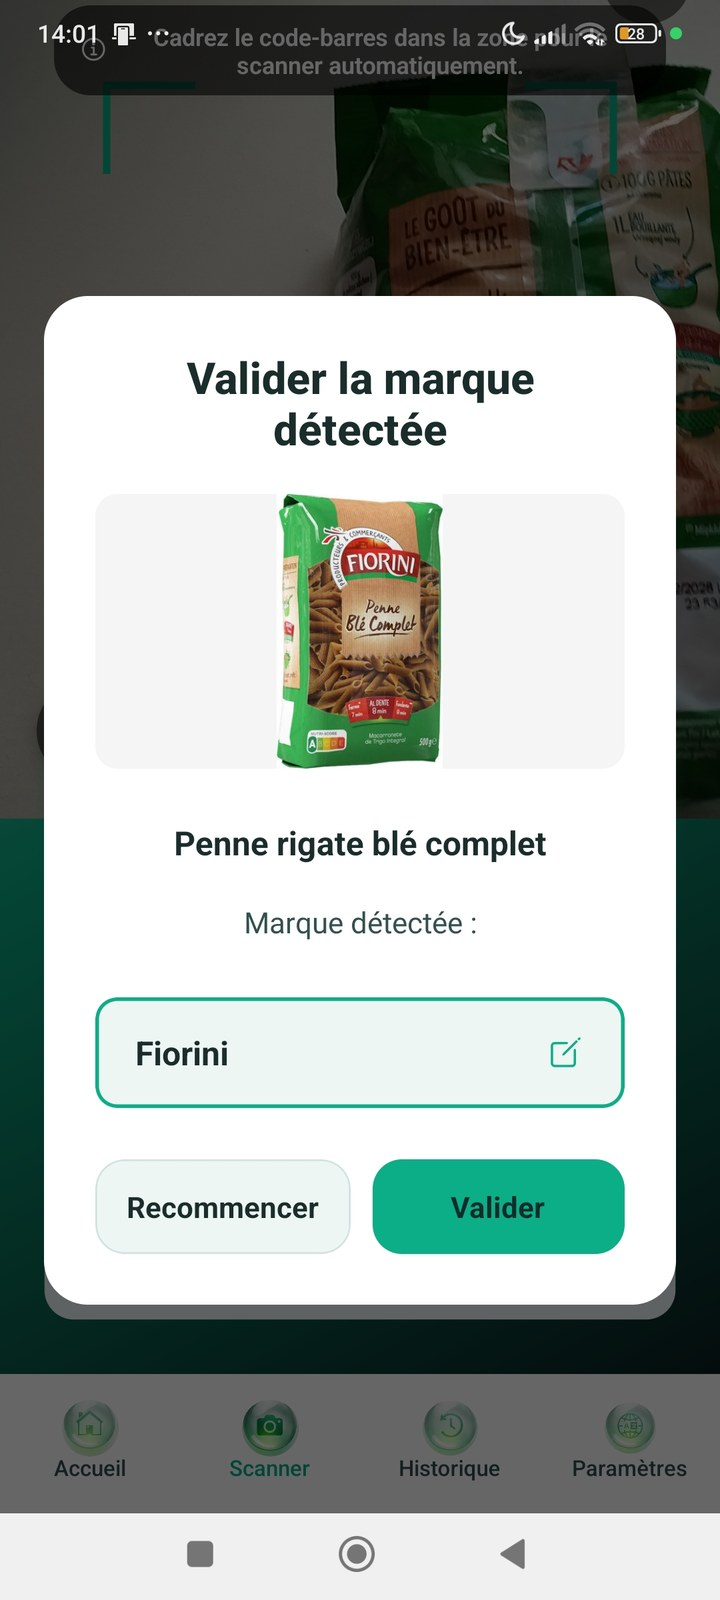
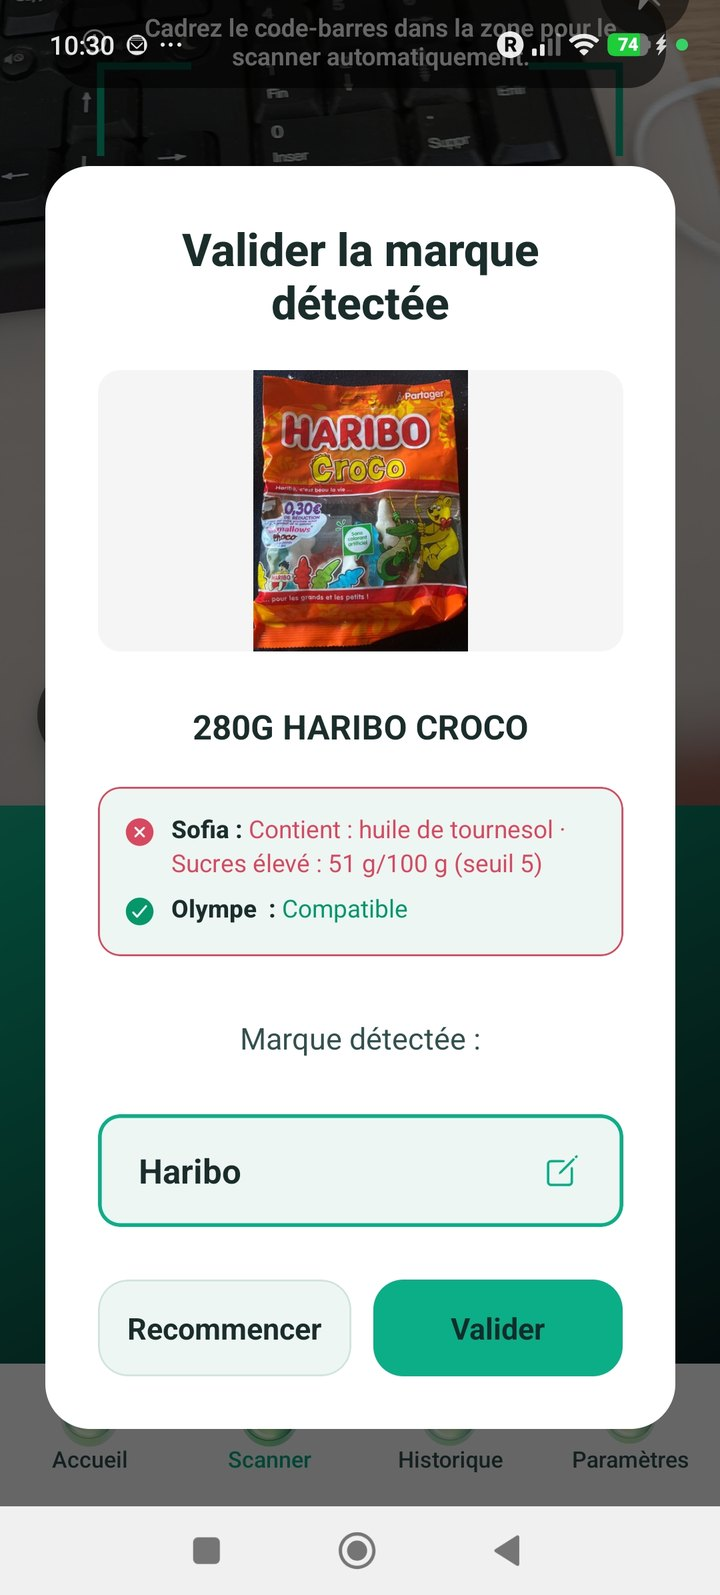
feat(site): show the per-profile diet verdict on the FR scan step
Replaces the press-kit "brand detected" screenshot, which predated the
dietary check. The current dialog runs every profile against the product
as soon as the brand is resolved (ScanScreen renders DietaryWarningBanner
inside the confirm modal), and the new capture shows it doing real work:
Sofia rejected with the reason (sunflower oil, sugars 51 g/100 g against
her 5 g threshold) while Olympe is compatible.

Adds a short note under the profiles gallery: the verdict lands before
the lot is even scanned, and Open Food Facts ingredient data is
declarative so it does not replace reading the label.

diff --git a/public/fr/index.html b/public/fr/index.html
@@ -505,6 +505,15 @@
           <span>Catalogue d'ingrédients</span>
         </div>
       </div>
+      <div class="step" style="margin-top: 22px;">
+        <b>Le verdict tombe dès la marque détectée</b>
+        <p>
+          Sans attendre le scan du lot, chaque profil est confronté au produit : allergène,
+          ingrédient à éviter, ou seuil nutritionnel dépassé — avec la raison précise. Les données
+          d'ingrédients proviennent d'Open Food Facts : elles sont déclaratives et parfois
+          incomplètes, elles ne remplacent pas la lecture de l'étiquette.
+        </p>
+      </div>
     </section>
 
     <section id="parcours" class="section fade-up" style="--delay: 0.28s;">
@@ -540,8 +549,8 @@
       </div>
       <div class="shots" style="margin-top: 22px;">
         <div class="shot">
-          <img src="/images/scan-1-marque-detectee.jpeg" alt="Marque détectée après le scan du code-barres" loading="lazy" />
-          <span>1 · Marque détectée</span>
+          <img src="/images/scan-1-marque-detectee.jpeg" alt="Marque détectée avec le contrôle du régime de chaque personne" loading="lazy" />
+          <span>1 · Marque détectée et régimes vérifiés</span>
         </div>
         <div class="shot">
           <img src="/images/scan-2-lecture-lot.jpeg" alt="Lecture du numéro de lot sur l'emballage" loading="lazy" />
